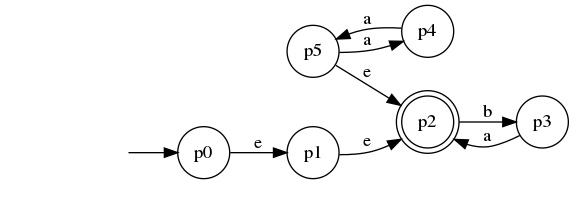
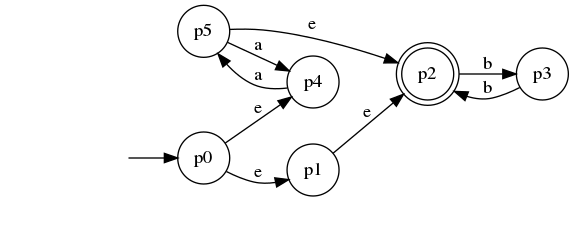
fixed FA.h

diff --git a/src/FA.h b/src/FA.h
@@ -2,56 +2,61 @@
 #include <unordered_map>
 #include <unordered_set>
 #include <string>
+#include <initializer_list>
 #include <boost/container_hash/hash.hpp>
+constexpr auto EPSILON = 'e';
 using STATE = std::string;
+using set= std::unordered_set<STATE>;
 class FA {
 
 	// We have to supply a hash function
 	// for std::pair. Instead we are using
 	// Boost to do that
 	STATE _starting;
-	std::unordered_set<STATE> _accepting;
-
+	set _accepting;
+	//_transitions of the form state X char -> set of states
 	std::unordered_map < std::pair<STATE, char>,
-		std::unordered_set<STATE>,
+		set,
 		boost::hash<std::pair<STATE, char>>
 		> _transitions;
 
-
-	std::unordered_set<STATE> step(std::unordered_set<STATE> start,
-		char a)
-	{
-		std::unordered_set<STATE> result;
+	// returns the result of a single step 
+	set step(set start,char a){
+		set result{};
 		for (const STATE& p : start) {
-			auto q
+			auto itr
 				= _transitions.find(std::make_pair(p, a));
-			if (q != _transitions.end())
-				//important to create a copy of q
-				//otherwise merge will "remove" the pair
-				// from transitions
-				result.merge(std::unordered_set<STATE>(q->second));
+			if (itr != _transitions.end()) {
+				result.insert(itr->second.begin(), itr->second.end());
+				result = closure(result);
+			}
 
 		}
 		return result;
 	}
 public:
 	FA() {}
-	FA(STATE i, std::unordered_set<STATE> a)
+	FA(STATE i, set a)
 		:_starting(i), _accepting(a) {}
 	FA(STATE i,std::initializer_list<STATE> a)
 		:_starting(i),_accepting(a) {}
-
-	void addTransition(STATE p, char a, std::unordered_set<STATE> s) {
-		_transitions.insert(
-			std::make_pair(std::make_pair(p,a) ,s)
+	
+	void addTransition(STATE p, char a, set s) {
+		//check if the transition exists
+		auto itr = _transitions.find(std::make_pair(p, a));
+		if (itr != _transitions.end()) 
+			itr->second.insert(s.begin(), s.end());
+		else
+			_transitions.insert(
+				std::make_pair(std::make_pair(p,a) ,s)
 		);
 	}
 	
-	std::unordered_set<STATE> run(std::string input) {
-		std::unordered_set<STATE> res{ _starting };
+	set run(std::string input) {
+		set result = closure({ _starting });
 		for (auto& a : input) 
-			res = step(res, a);
-		return res;
+			result = step(result, a);
+		return result;
 	}
 	bool accept(std::string input) {
 		auto res = run(input);
@@ -65,12 +70,37 @@ public:
 	STATE& starting() {
 		return _starting;
 	}
-	std::unordered_set<STATE> & accepting() {
+	set & accepting() {
 		return _accepting;
 	}
-	std::unordered_map<std::pair<STATE,char>,
-		std::unordered_set<STATE>,
-		boost::hash<std::pair<STATE,char>>
-			>
-			& transitions(){return _transitions;}
+
+	set closure(set s) {
+		set result;
+		// define "single step " closure function
+		auto cl = [this](auto q) {
+			set result{ q };
+			auto itr = _transitions.find(std::make_pair(q, EPSILON));
+			if (itr != _transitions.end())
+				result.insert(itr->second.begin(), itr->second.end());
+
+			return result;
+		};
+
+		for (auto p : s) {
+			auto q = cl(p);
+			result.insert(q.begin(), q.end());
+		}
+		if (s == result)return result;
+		else return closure(result);
+	}
+	std::unordered_set<STATE>
+		closure(std::initializer_list<STATE> list) {
+		return closure(std::unordered_set<STATE>(list));
+	}
+
+	std::unordered_map < std::pair<STATE, char>,
+		set,boost::hash<std::pair<STATE, char>>>& 
+		transitions() {
+		return _transitions;
+	}
 };
